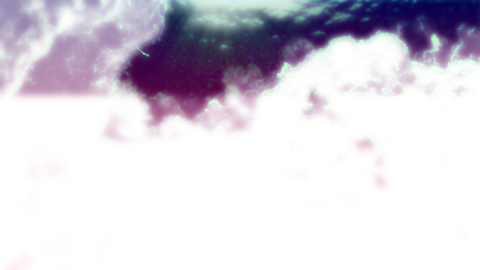
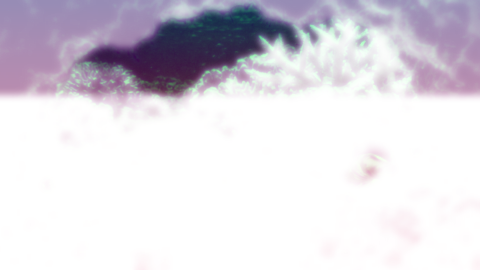
Enforce strict first-person animal POV across all 15 plates and survival missions (?v=3)

Changed region(s): [[0.0, 0.0, 1.0, 0.5037], [0.7188, 0.5037, 0.8125, 0.6815], [0.2188, 0.4444, 0.2812, 0.5333]]

diff --git a/umwelt/js/data/biomes.js b/umwelt/js/data/biomes.js
@@ -228,7 +228,7 @@ export const BIOMES = [
         fovDeg: 80,
         sensoryTag: '12-Band + CPL',
         accentColor: '#ec4899',
-        summary: '12 narrowband spectral channels (300–720 nm) plus circular polarization receptors mounted in a sweeping equatorial midband strip decode covert rival signals.',
+        summary: '12 narrowband spectral channels (300–720 nm) plus circular polarization receptors mounted in a sweeping equatorial midband strip decode armored crustacean shells.',
         photoreceptors: [
           { label: 'UV 1–4', peakNm: 335, color: '#a855f7', width: 22 },
           { label: 'Blue 5–7', peakNm: 445, color: '#3b82f6', width: 24 },
@@ -236,10 +236,10 @@ export const BIOMES = [
           { label: 'Red 11–12', peakNm: 665, color: '#f43f5e', width: 26 },
         ],
         nonVisualBand: { label: 'Circular Polarization (CPL)', range: 'LH & RH CPL Midband', badge: '12-CH · CPL' },
-        mechanic: { id: 'midband_sweep', hint: 'Sweep cursor to scan the tilted trinocular 12-band strip over the rival CPL threat display' },
+        mechanic: { id: 'midband_sweep', hint: 'Sweep cursor to scan the tilted trinocular 12-band strip over the armored reef crab' },
         defaultSemantics: {
-          primaryTarget: { present: true, label: 'Rival Mantis Shrimp CPL Display', x: 0.62, y: 0.56, rx: 0.11, ry: 0.11 },
-          secondaryTarget: { present: true, label: 'Armored Reef Crab', x: 0.30, y: 0.68, rx: 0.10, ry: 0.09 },
+          primaryTarget: { present: true, label: 'Armored Reef Crab (CPL Shell)', x: 0.62, y: 0.56, rx: 0.11, ry: 0.11 },
+          secondaryTarget: { present: true, label: 'Iridescent Giant Clam Mantle', x: 0.30, y: 0.68, rx: 0.10, ry: 0.09 },
           environmentFeature: { present: true, label: 'Coral Rubble Terrace', x: 0.48, y: 0.78, rx: 0.36, ry: 0.16 },
           skyOrWaterRegion: { present: true, x: 0.50, y: 0.18, rx: 0.50, ry: 0.22 },
         },
@@ -423,10 +423,10 @@ export const BIOMES = [
           { label: 'Defocus Tier 2', peakNm: 532, color: '#e879f9', width: 36 },
         ],
         nonVisualBand: { label: 'Chromatic Defocus + 360° Ring', range: '±2 mm jump ranging', badge: 'DEFOCUS · 360°' },
-        mechanic: { id: 'defocus_lock', hint: 'Center the green-magenta chromatic defocus rangefinder over the orb-weaver spider to lock range' },
+        mechanic: { id: 'defocus_lock', hint: 'Center the green-magenta chromatic defocus rangefinder over the rainforest leaf katydid to lock jump range' },
         defaultSemantics: {
-          primaryTarget: { present: true, label: 'Orb-Weaver Prey Spider', x: 0.44, y: 0.50, rx: 0.10, ry: 0.10 },
-          secondaryTarget: { present: true, label: 'Dew-Laden Silk Anchor', x: 0.68, y: 0.60, rx: 0.12, ry: 0.12 },
+          primaryTarget: { present: true, label: 'Rainforest Leaf Katydid Prey', x: 0.44, y: 0.50, rx: 0.10, ry: 0.10 },
+          secondaryTarget: { present: true, label: 'Dew-Laden Bromeliad Tip', x: 0.68, y: 0.60, rx: 0.12, ry: 0.12 },
           environmentFeature: { present: true, label: 'Bromeliad Frond Edge', x: 0.42, y: 0.72, rx: 0.36, ry: 0.18 },
           skyOrWaterRegion: { present: true, x: 0.52, y: 0.16, rx: 0.46, ry: 0.18 },
         },
@@ -539,11 +539,11 @@ export const MYSTERIES = [
     mysteryId: 'reef_mantis_cpl_signal',
     biomeId: 'reef',
     requiredSpeciesSlug: 'mantis_shrimp',
-    title: 'Circular Polarization Threat',
-    cluePrompt: 'Coral rubble looks drab at the burrow entrance. Sweep the Peacock Mantis Shrimp\'s tilted 12-channel midband strip to uncover and click the rival\'s neon circularly polarized threat display.',
+    title: 'Circular Polarization Armor',
+    cluePrompt: 'Coral rubble hides armored prey in drab shadows. Sweep the Peacock Mantis Shrimp\'s tilted 12-channel midband strip to unmask and click the reef crab blazing in hyperspectral & CPL contrast.',
     targetSemanticKey: 'primaryTarget',
     requiredMechanic: 'midband_sweep',
-    scientificReveal: 'Stomatopods possess biological quarter-wave retarders distinguishing left- and right-handed circularly polarized light—a covert crustacean channel invisible to fish predators (Chiou et al., 2008).',
+    scientificReveal: 'Stomatopods combine 12 narrowband spectral channels (300–720 nm) with biological quarter-wave retarders distinguishing circularly polarized light—breaking crustacean armor camouflage across coral rubble (Chiou et al., 2008).',
     points: 200,
   },
   {
@@ -595,7 +595,7 @@ export const MYSTERIES = [
     biomeId: 'cloudforest',
     requiredSpeciesSlug: 'jumping_spider',
     title: 'Chromatic Depth Lock',
-    cluePrompt: 'From the bromeliad frond, aim the Portia Jumping Spider\'s green-magenta defocus rangefinder to calibrate exact ballistic jump distance and click the lurking orb-weaver spider.',
+    cluePrompt: 'From the bromeliad frond, aim the Portia Jumping Spider\'s green-magenta defocus rangefinder to calibrate exact ballistic jump distance and click the camouflaged rainforest katydid.',
     targetSemanticKey: 'primaryTarget',
     requiredMechanic: 'defocus_lock',
     scientificReveal: 'Jumping spider principal eyes stack four photoreceptor layers: green light focuses sharply on Tier 1 while optical defocus blur on Tier 2 yields exact monocular distance (Nagata et al., Science 2012).',

diff --git a/umwelt/js/engine/MissionEngine.js b/umwelt/js/engine/MissionEngine.js
@@ -3,7 +3,7 @@
  * Renders sensory-faithful prey, hazards, stealth shelters, and animal locomotion feedback
  * synchronized directly atop the WebGL2 perception canvas.
  */
-import { getMissionForSpecies, getSpecies } from '../data/biomes.js?v=1';
+import { getMissionForSpecies, getSpecies } from '../data/biomes.js?v=3';
 
 function clamp(v, lo, hi) {
   return Math.max(lo, Math.min(hi, v));
@@ -613,14 +613,15 @@ export class MissionEngine {
       p.heading = Math.atan2(p.vy, p.vx);
     }
 
-    // Drive WebGL2 2.5D navigable camera offset, zoom, cursor, and gait bob!
+    // Drive WebGL2 2.5D first-person navigable camera offset, zoom lunge, cursor, and gait bob!
     const st = this.renderer.state;
     st.cursorX = p.x;
     st.cursorY = p.y;
-    st.camOffsetX = (p.x - 0.5) * 0.14;
-    st.camOffsetY = -(p.y - 0.5) * 0.12;
-    st.camZoom = p.dashTimer > 0 ? 1.18 : 1.12;
-    st.gaitBob = Math.sin(p.gaitPhase) * (speedMag > 0.02 ? 1.0 : 0.25);
+    st.camOffsetX = (p.x - 0.5) * 0.22;
+    st.camOffsetY = -(p.y - 0.5) * 0.18;
+    const actionLunge = p.cooldown > 0.22 ? 0.08 : 0;
+    st.camZoom = (p.dashTimer > 0 ? 1.28 : 1.18) + actionLunge;
+    st.gaitBob = Math.sin(p.gaitPhase) * (speedMag > 0.02 ? 1.15 : 0.28);
 
     // Cuttlefish continuous Q/E polarization rotation
     if (slug === 'cuttlefish' && inp.rotPol !== 0) {
@@ -1129,19 +1130,73 @@ export class MissionEngine {
       ctx.restore();
     }
 
-    // 5. Embodied Player Animal Marker & Reticle
+    // 5. Pure First-Person Optical Sensory Sight (NEVER render the POV animal itself!)
     const px = p.x * w;
     const py = p.y * h;
+    const rMain = minDim * 0.052;
     ctx.save();
     ctx.strokeStyle = p.stealth ? '#34d399' : this.species.accentColor;
-    ctx.lineWidth = 2.5;
+    ctx.lineWidth = 2.2;
     ctx.beginPath();
-    ctx.arc(px, py, minDim * 0.045, 0, Math.PI * 2);
+    ctx.arc(px, py, rMain, 0, Math.PI * 2);
     ctx.stroke();
-    ctx.font = `${Math.round(minDim * 0.036)}px sans-serif`;
-    ctx.textAlign = 'center';
-    ctx.textBaseline = 'middle';
-    ctx.fillText(this.species.icon, px, py);
+
+    // Precision optical tick marks at N/S/E/W
+    const tickIn = rMain * 0.65;
+    const tickOut = rMain * 1.28;
+    ctx.beginPath();
+    ctx.moveTo(px - tickOut, py); ctx.lineTo(px - tickIn, py);
+    ctx.moveTo(px + tickIn, py); ctx.lineTo(px + tickOut, py);
+    ctx.moveTo(px, py - tickOut); ctx.lineTo(px, py - tickIn);
+    ctx.moveTo(px, py + tickIn); ctx.lineTo(px, py + tickOut);
+    ctx.stroke();
+
+    // Species-specific first-person HUD cue inside reticle
+    if (slug === 'cuttlefish') {
+      const ang = this.renderer.state.polAngleRad;
+      const ax = Math.cos(ang) * rMain * 0.85;
+      const ay = Math.sin(ang) * rMain * 0.85;
+      ctx.strokeStyle = '#cffafe';
+      ctx.setLineDash([4, 3]);
+      ctx.beginPath();
+      ctx.moveTo(px - ax, py - ay);
+      ctx.lineTo(px + ax, py + ay);
+      ctx.stroke();
+      ctx.setLineDash([]);
+    } else if (slug === 'hammerhead') {
+      // Wide cephalofoil electroreception horizon sweep bar
+      ctx.strokeStyle = 'rgba(129, 140, 248, 0.85)';
+      ctx.lineWidth = 2;
+      ctx.beginPath();
+      ctx.moveTo(px - rMain * 2.1, py);
+      ctx.lineTo(px - rMain * 0.9, py);
+      ctx.moveTo(px + rMain * 0.9, py);
+      ctx.lineTo(px + rMain * 2.1, py);
+      ctx.stroke();
+    } else if (slug === 'jumping_spider') {
+      // Dual green/magenta focal crosshair rings
+      ctx.strokeStyle = '#34d399';
+      ctx.beginPath();
+      ctx.arc(px - 3, py, rMain * 0.55, 0, Math.PI * 2);
+      ctx.stroke();
+      ctx.strokeStyle = '#e879f9';
+      ctx.beginPath();
+      ctx.arc(px + 3, py, rMain * 0.55, 0, Math.PI * 2);
+      ctx.stroke();
+    }
+
+    // Center pinpoint dot
+    ctx.fillStyle = p.stealth ? '#6ee7b7' : '#ffffff';
+    ctx.beginPath();
+    ctx.arc(px, py, 3, 0, Math.PI * 2);
+    ctx.fill();
+
+    if (p.stealth) {
+      ctx.fillStyle = '#6ee7b7';
+      ctx.font = `700 ${Math.round(minDim * 0.016)}px "JetBrains Mono", monospace`;
+      ctx.textAlign = 'center';
+      ctx.fillText('HIDDEN (RED-BLIND COVER)', px, py + rMain + 16);
+    }
     ctx.restore();
 
     // 6. Action / Capture Ring FX

diff --git a/umwelt/js/engine/UmweltRenderer.js b/umwelt/js/engine/UmweltRenderer.js
@@ -6,7 +6,7 @@
  *   Pass 3   -> fboPrev   (Half-Res Ping-Pong History for Rod Motion Differencing)
  */
 import { FULLSCREEN_VS, LIVING_SCENE_FS, UMWELT_PERCEPTION_FS, COPY_FS } from './shaders.js?v=1';
-import { getBiome, getSpecies, sanitizePlateKey } from '../data/biomes.js?v=1';
+import { getBiome, getSpecies, sanitizePlateKey } from '../data/biomes.js?v=3';
 
 const IDB_NAME = 'umwelt_plates_l1';
 const IDB_STORE = 'plates';
@@ -172,7 +172,7 @@ export class UmweltRenderer {
 
     // Load pre-baked static launch plate manifest (15 default-lighting plates on GitHub Pages CDN)
     try {
-      const resp = await fetch('assets/plates/manifest.json?v=1');
+      const resp = await fetch('assets/plates/manifest.json?v=3');
       if (resp.ok) {
         this.staticManifest = await resp.json();
         for (const pk of Object.keys(this.staticManifest)) {
@@ -462,8 +462,8 @@ export class UmweltRenderer {
     if (this.memoryPlates.has(plateKey)) return this.memoryPlates.get(plateKey);
     try {
       const [rgbResp, bioResp] = await Promise.all([
-        fetch(`${manifestEntry.rgbPath}?v=1`),
-        fetch(`${manifestEntry.bioPath}?v=1`),
+        fetch(`${manifestEntry.rgbPath}?v=3`),
+        fetch(`${manifestEntry.bioPath}?v=3`),
       ]);
       if (!rgbResp.ok || !bioResp.ok) return null;
       const [rgbBlob, bioBlob] = await Promise.all([rgbResp.blob(), bioResp.blob()]);

diff --git a/umwelt/js/ui/app.js b/umwelt/js/ui/app.js
@@ -11,14 +11,14 @@ import {
   getSpecies,
   getMysteryForSpecies,
   getMissionForSpecies,
-} from '../data/biomes.js?v=1';
-import { UmweltRenderer } from '../engine/UmweltRenderer.js?v=2';
+} from '../data/biomes.js?v=3';
+import { UmweltRenderer } from '../engine/UmweltRenderer.js?v=3';
 import { AudioSynthesizer } from '../engine/AudioSynthesizer.js?v=1';
 import { InputController } from '../engine/InputController.js?v=1';
-import { MissionEngine } from '../engine/MissionEngine.js?v=1';
+import { MissionEngine } from '../engine/MissionEngine.js?v=3';
 import { renderPhotoreceptorChart } from './PhotoreceptorChart.js?v=1';
 import { OpticalCursorHUD } from './OpticalCursorHUD.js?v=1';
-import { FieldJournalDrawer } from './FieldJournal.js?v=2';
+import { FieldJournalDrawer } from './FieldJournal.js?v=3';
 
 const IS_LOCAL = ['localhost', '127.0.0.1'].includes(window.location.hostname);
 const API_BASE = window.UMWELT_API_URL

diff --git a/umwelt/js/ui/FieldJournal.js b/umwelt/js/ui/FieldJournal.js
@@ -1,7 +1,7 @@
 /**
  * UMWELT: Animal Optics — Collapsible Right Ecological Field Journal & Mission Medals Drawer
  */
-import { BIOMES, MYSTERIES, MISSIONS, getSpecies } from '../data/biomes.js?v=1';
+import { BIOMES, MYSTERIES, MISSIONS, getSpecies } from '../data/biomes.js?v=3';
 
 export class FieldJournalDrawer {
   constructor(drawerEl, callbacks = {}) {

diff --git a/umwelt/index.html b/umwelt/index.html
@@ -183,6 +183,6 @@
     </div>
   </div>
 
-  <script type="module" src="js/ui/app.js?v=2"></script>
+  <script type="module" src="js/ui/app.js?v=3"></script>
 </body>
 </html>

diff --git a/backend/umwelt_data.py b/backend/umwelt_data.py
@@ -257,7 +257,7 @@ BIOMES = [
                 "fovDeg": 80,
                 "sensoryTag": "12-Band + Circular Pol.",
                 "accentColor": "#ec4899",
-                "summary": "12 narrowband spectral channels (300–720 nm) plus circular polarization receptors mounted in a sweeping equatorial midband strip decode covert rival crustacean signals.",
+                "summary": "12 narrowband spectral channels (300–720 nm) plus circular polarization receptors mounted in a sweeping equatorial midband strip decode armored crustacean shell signals.",
                 "photoreceptors": [
                     {"label": "UV 1–4", "peakNm": 335, "color": "#a855f7", "width": 22},
                     {"label": "Violet/Blue 5–7", "peakNm": 445, "color": "#3b82f6", "width": 24},
@@ -265,16 +265,17 @@ BIOMES = [
                     {"label": "Red/Far-Red 11–12", "peakNm": 665, "color": "#f43f5e", "width": 26},
                 ],
                 "nonVisualBand": {"label": "Circular Polarization (CPL) Midband", "range": "Left & Right-handed CPL"},
-                "mechanic": {"id": "midband_sweep", "hint": "Sweep cursor to aim the tilted trinocular 12-band + CPL scanline across the rubble entrance"},
+                "mechanic": {"id": "midband_sweep", "hint": "Sweep cursor to aim the tilted trinocular 12-band + CPL scanline across the coral rubble"},
                 "imagePrompt": (
-                    "National Geographic underwater photorealistic 16:9 low-angle reef-floor macro photograph from 8 cm above a coral rubble "
-                    "seabed looking outward from a burrow entrance. Textural dead coral rubble, encrusting coralline algae, and a rival peacock "
-                    "mantis shrimp emerging defensively from an adjacent coral crevice on the right-of-center displaying its iridescent armored "
-                    "antennal scales and raptorial appendages, with sunlit reef water above. Ultra-crisp underwater macro photography, no text."
+                    "Strictly first-person POV underwater National Geographic photorealistic 16:9 low-angle reef-floor macro photograph "
+                    "looking outward from 8 cm above a coral rubble seabed peering out of a dark burrow lip. Textural dead coral rubble, "
+                    "encrusting pink coralline algae, and an armored camouflaged mottled reef crab (Xanthidae) tucked inside a sunlit coral "
+                    "crevice right-of-center beside an iridescent bivalve shell, with sunlit turquoise reef water above. NO mantis shrimp "
+                    "anywhere in the frame—pure first-person vantage looking out at crab prey. Ultra-crisp macro photography, no text."
                 ),
                 "defaultSemantics": {
-                    "primaryTarget": {"present": True, "label": "Rival Mantis Shrimp CPL Display", "x": 0.62, "y": 0.56, "rx": 0.11, "ry": 0.11},
-                    "secondaryTarget": {"present": True, "label": "Armored Reef Crab", "x": 0.30, "y": 0.68, "rx": 0.10, "ry": 0.09},
+                    "primaryTarget": {"present": True, "label": "Armored Reef Crab (CPL Shell)", "x": 0.62, "y": 0.56, "rx": 0.11, "ry": 0.11},
+                    "secondaryTarget": {"present": True, "label": "Iridescent Giant Clam Mantle", "x": 0.30, "y": 0.68, "rx": 0.10, "ry": 0.09},
                     "environmentFeature": {"present": True, "label": "Coral Rubble Terrace", "x": 0.48, "y": 0.78, "rx": 0.36, "ry": 0.16},
                     "skyOrWaterRegion": {"present": True, "x": 0.50, "y": 0.18, "rx": 0.50, "ry": 0.22},
                 },
@@ -482,16 +483,17 @@ BIOMES = [
                     {"label": "Green-Defocus Tier 2", "peakNm": 532, "color": "#e879f9", "width": 36},
                 ],
                 "nonVisualBand": {"label": "Image-Defocus Depth + 360° Radar", "range": "±2 mm ballistic rangefinding"},
-                "mechanic": {"id": "defocus_lock", "hint": "Aim the green-magenta defocus rangefinder over the prey spider on the bromeliad leaf to lock range"},
+                "mechanic": {"id": "defocus_lock", "hint": "Aim the green-magenta defocus rangefinder over the rainforest leaf katydid on the bromeliad frond to lock jump range"},
                 "imagePrompt": (
-                    "National Geographic photorealistic 16:9 extreme macro photograph from 0.35m right along the glistening curving edge of a "
-                    "tropical rainforest bromeliad leaf at dusk. Dewdrops bead along the serrated green leaf blade leading toward a delicate "
-                    "silk web suspended between damp fronds just center-left where a small spotted orb-weaver spider sits poised in twilight mist. "
-                    "Rich shallow depth of field, atmospheric misty cloud forest bokeh behind, zero text, no watermark."
+                    "Strictly first-person POV National Geographic photorealistic 16:9 extreme macro photograph from 0.35m peering directly "
+                    "along the glistening curving edge of a tropical rainforest bromeliad leaf at dusk. Dewdrops bead along the serrated green "
+                    "leaf blade leading toward a small camouflaged emerald-and-tan rainforest katydid cricket perched delicately on an adjacent "
+                    "frond tip just center-left in twilight mist. NO spiders anywhere in the frame—pure first-person predator POV looking at "
+                    "insect prey. Rich shallow depth of field, atmospheric misty cloud forest bokeh behind, zero text, no watermark."
                 ),
                 "defaultSemantics": {
-                    "primaryTarget": {"present": True, "label": "Orb-Weaver Prey Spider", "x": 0.44, "y": 0.50, "rx": 0.10, "ry": 0.10},
-                    "secondaryTarget": {"present": True, "label": "Dew-Laden Silk Anchor", "x": 0.68, "y": 0.60, "rx": 0.12, "ry": 0.12},
+                    "primaryTarget": {"present": True, "label": "Rainforest Leaf Katydid Prey", "x": 0.44, "y": 0.50, "rx": 0.10, "ry": 0.10},
+                    "secondaryTarget": {"present": True, "label": "Dew-Laden Bromeliad Tip", "x": 0.68, "y": 0.60, "rx": 0.12, "ry": 0.12},
                     "environmentFeature": {"present": True, "label": "Bromeliad Frond Edge", "x": 0.42, "y": 0.72, "rx": 0.36, "ry": 0.18},
                     "skyOrWaterRegion": {"present": True, "x": 0.52, "y": 0.16, "rx": 0.46, "ry": 0.18},
                 },
@@ -616,11 +618,11 @@ MYSTERIES = [
         "mysteryId": "reef_mantis_cpl_signal",
         "biomeId": "reef",
         "requiredSpeciesSlug": "mantis_shrimp",
-        "title": "Circular Polarization Threat",
-        "cluePrompt": "Coral rubble looks drab at the burrow lip. Sweep the Peacock Mantis Shrimp's tilted 12-channel trinocular midband strip to uncover and click the rival's blazing circularly polarized maxilliped signal.",
+        "title": "Circular Polarization Armor",
+        "cluePrompt": "Coral rubble hides armored prey in drab shadows. Sweep the Peacock Mantis Shrimp's tilted 12-channel midband strip to unmask and click the reef crab blazing in hyperspectral & CPL contrast.",
         "targetSemanticKey": "primaryTarget",
         "requiredMechanic": "midband_sweep",
-        "scientificReveal": "Stomatopods are the only known animals with biological quarter-wave retarders in their R8 rhabdomeres capable of distinguishing left- and right-handed circularly polarized light—creating a covert, predator-proof communication channel (Chiou et al., Current Biology 2008).",
+        "scientificReveal": "Stomatopods pack 12 narrowband spectral photoreceptors (300–720 nm) plus biological quarter-wave retarders distinguishing left- and right-handed circularly polarized light—breaking crustacean shell camouflage across sunlit coral rubble (Chiou et al., Current Biology 2008).",
         "points": 200,
     },
     {
@@ -673,7 +675,7 @@ MYSTERIES = [
         "biomeId": "cloudforest",
         "requiredSpeciesSlug": "jumping_spider",
         "title": "Chromatic Depth Lock",
-        "cluePrompt": "From the bromeliad leaf tip, aim the Portia Jumping Spider's green-magenta chromatic defocus rangefinder to calibrate exact jump distance and click the lurking orb-weaver spider.",
+        "cluePrompt": "From the bromeliad leaf tip, aim the Portia Jumping Spider's green-magenta chromatic defocus rangefinder to calibrate exact jump distance and click the camouflaged rainforest katydid.",
         "targetSemanticKey": "primaryTarget",
         "requiredMechanic": "defocus_lock",
         "scientificReveal": "Jumping spider principal eyes stack four photoreceptor tiers along the optical axis. Green light focuses sharply on Tier 1 while forming a distance-dependent blur circle on Tier 2, allowing monocular ballistic depth calculation without stereo disparity (Nagata et al., Science 2012).",

diff --git a/backend/umwelt_pipeline.py b/backend/umwelt_pipeline.py
@@ -290,7 +290,10 @@ def synthesize_wildlife_plate(biome, species, lighting_preset):
 
     lighting_desc = LIGHTING_MODIFIERS.get(lighting_preset, f"{lighting_preset} natural lighting.")
     full_prompt = (
-        f"{species['imagePrompt']} Lighting & Atmosphere: {lighting_desc} "
+        f"{species['imagePrompt']} "
+        f"STRICT FIRST-PERSON POV RULE: This camera is positioned inside the eyes of the {species['name']} looking outward at the habitat; "
+        f"NEVER depict a {species['name']} (or any member of {species['scientificName']}) anywhere inside the photograph. "
+        f"Lighting & Atmosphere: {lighting_desc} "
         f"Compose strictly in widescreen 16:9 cinematic aspect ratio. Pure documentary photography—no frames, no borders, no captions, no text."
     )
 
